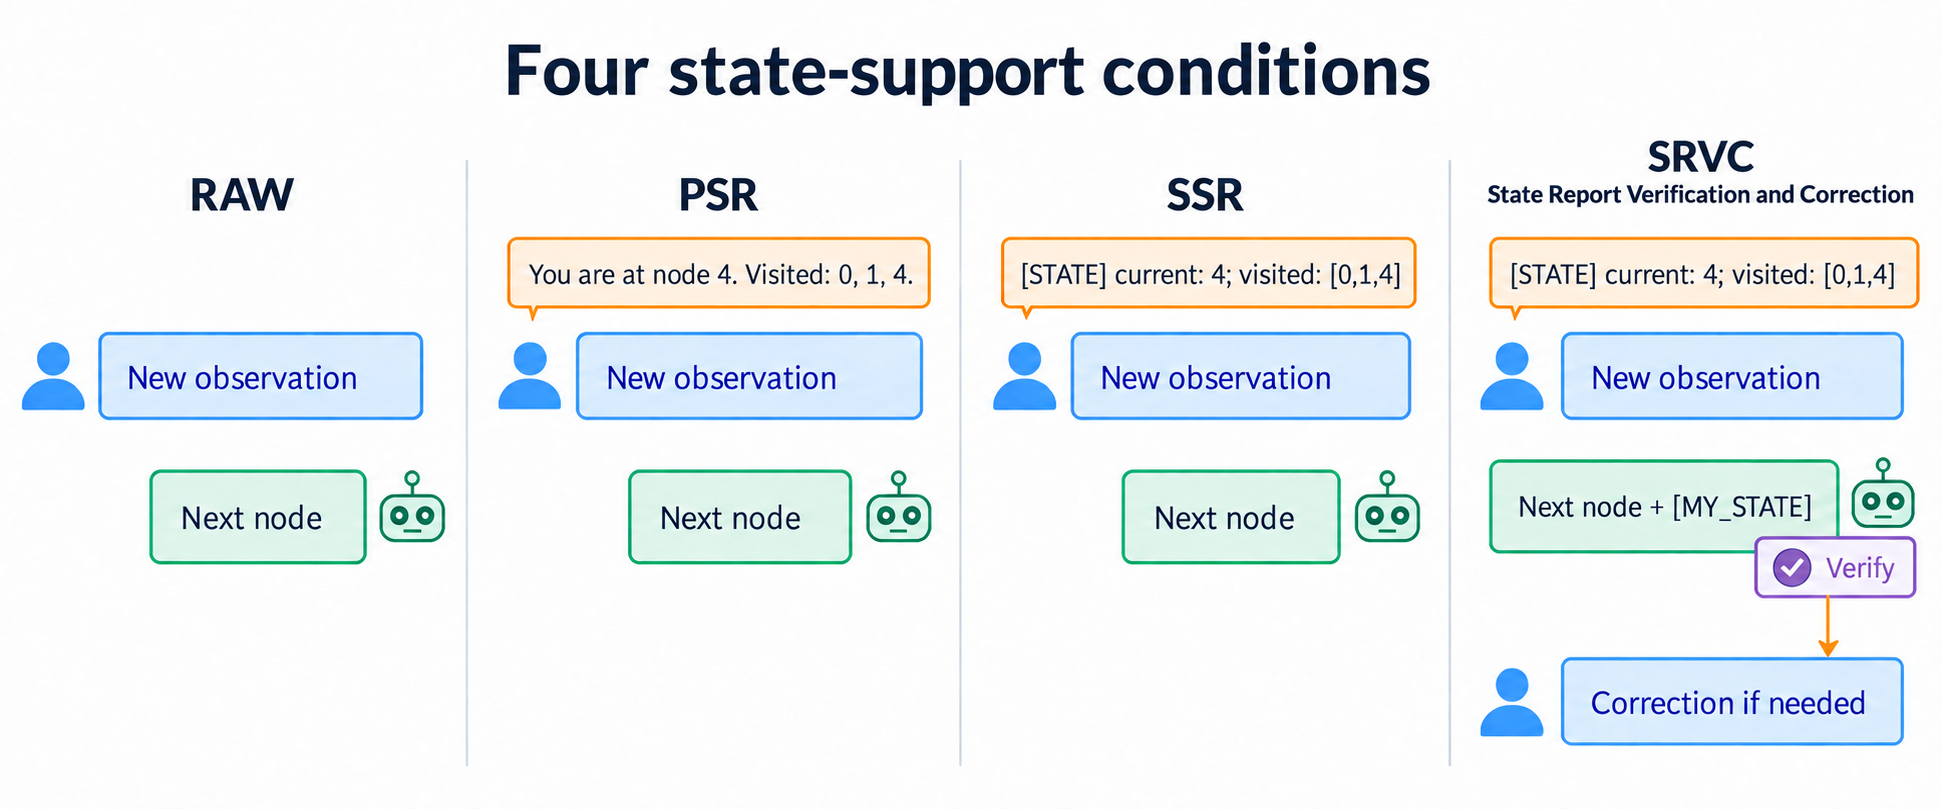
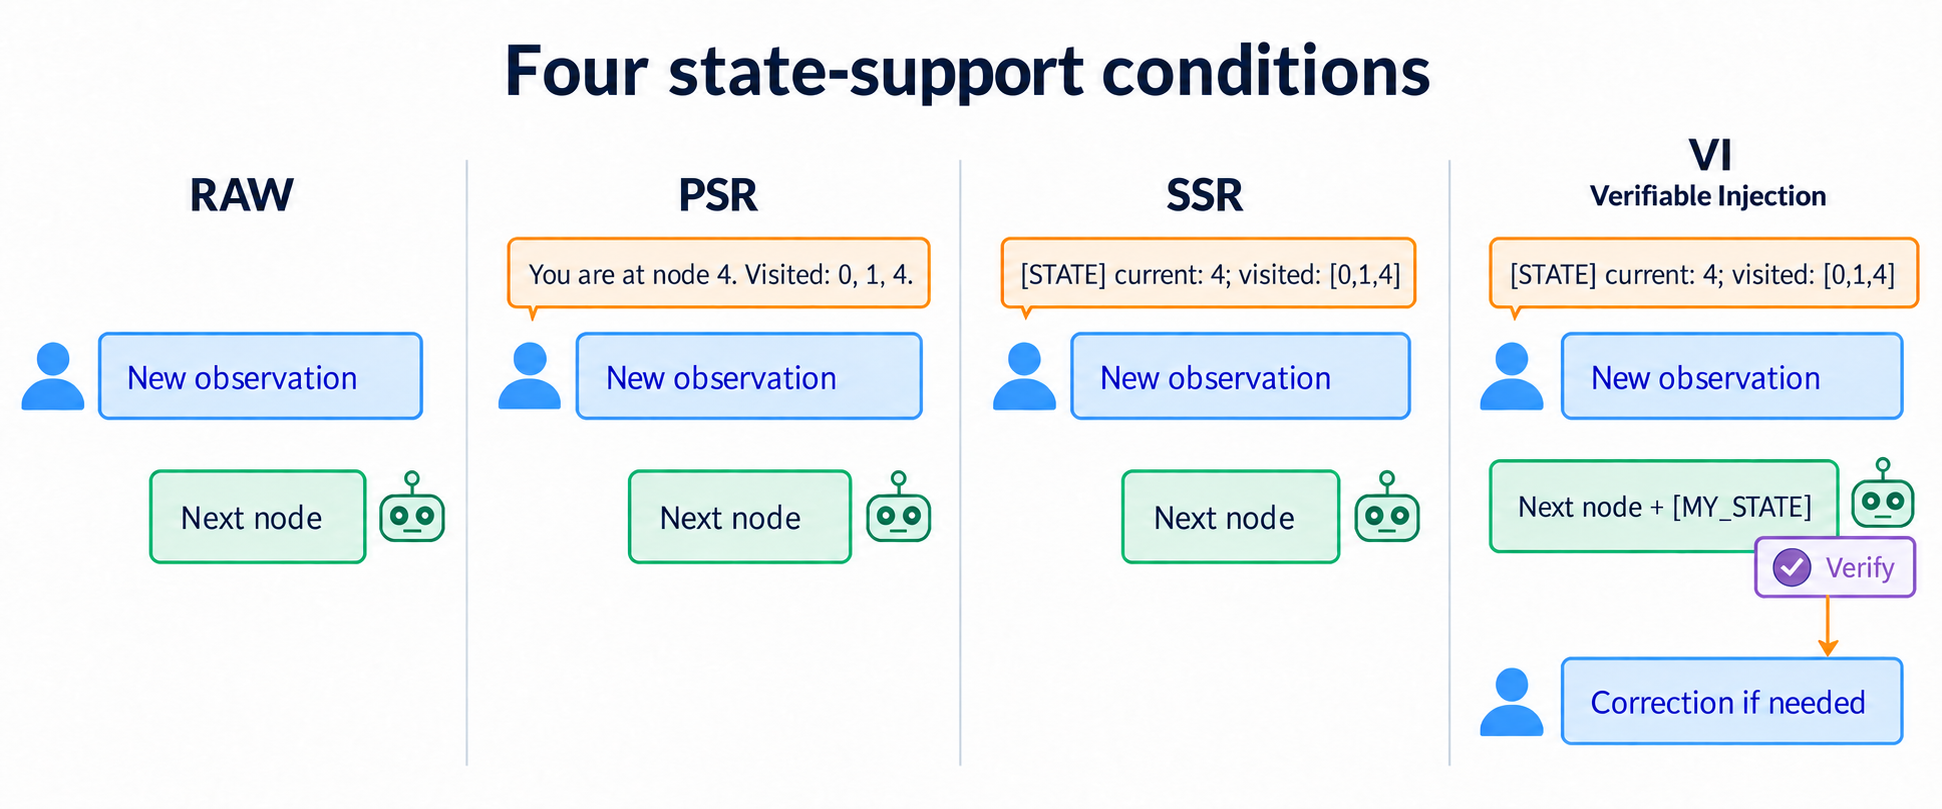
Update research showcase with completed study results

diff --git a/README.md b/README.md
@@ -4,177 +4,172 @@ Apurbo Banik Turjo
 
 **Collaborators:** Sushmita Paul, Dr. Ch. Md. Rakin Haider
 
-Maintained research workspace. Updated September 2026. Work in progress.
+Research summary updated October 2026. Paper in preparation.
 
-This is a public overview of an ongoing study. Results, exact prompts, traces,
-and implementation details will remain private until they are ready to share.
+This repository presents the study's design and current results. The aggregate
+analysis is public here; raw trajectories, full prompts, and run manifests are
+not included.
 
-## Abstract
+## Research question
 
-Small language models are useful when compute, cost, or privacy matters. But a
-model that answers one prompt well may still lose track of a task over a long
-interaction. It has to remember earlier steps, update its state as new
-information arrives, and recover when something goes wrong.
+An agent acting over many turns must use each new observation without losing
+the task state built so far. We ask whether externally maintained state,
+conversation history, and state-report verification help small language models
+complete interactive tasks while following the required algorithm.
 
-The project asks:
+We study breadth-first search (BFS) and depth-first search (DFS) on partially
+observed trees. Each turn reveals only the neighbors of the node reached.
+These tasks let us separate visiting all nodes from following the correct
+traversal order. They are controlled diagnostics, not the full range of agents
+we hope to study.
 
-> **How should an interactive system represent and manage state so that a small
-> language model can reason more reliably over many turns?**
+![An agent acts on partial observations while an external system maintains task state.](assets/research_setup.png)
 
-I study external state support, conversation history, and state verification
-in partially observed tasks. Interactive BFS and DFS give us a controlled way
-to observe these problems. They are test cases, not the wider goal of the
-research.
+## Experimental setup
 
-## Why this matters
+The completed inference campaign contains **25,600 trajectories**: four model
+checkpoints, two tasks, two difficulty levels, four state-support conditions,
+two history policies, and 200 matched graphs per exact cell. The models are
+Qwen3-1.7B, Qwen3.5-2B, Qwen3.5-4B, and Gemma-4-E4B-IT. Inference used one
+H100 NVL with a vLLM server, up to 16 concurrent episodes, greedy decoding
+(temperature 0), a 4,096-token output cap, a 2,048-token thinking budget,
+and a 32,768-token context limit.
 
-Many agents work one step at a time. A tool result, user reply, test failure, or
-environment change reveals information needed for the next step. A specialized
-SLM can keep a task-specific registry instead of reconstructing everything from
-a growing conversation. Facts visible to the surrounding system can also be
-checked when needed.
+![Four state-support conditions: RAW, PSR, SSR, and VI.](assets/state_conditions.png)
 
-This idea is relevant to:
+| Condition | State support |
+| --- | --- |
+| **RAW** | Current observation, with no injected state reminder. |
+| **PSR: Prose State Reminder** | Verified state restated in ordinary language. |
+| **SSR: Structured State Reminder** | The same task-specific facts in a tagged state block. |
+| **VI: Verifiable Injection** | SSR plus a required state report, checked against the environment, with feedback after a missing, malformed, or incorrect report. |
 
-- tool-using agents that must track calls, results, dependencies, and pending work;
-- troubleshooting systems that keep test results and possible causes;
-- task-oriented assistants that collect information and complete a workflow;
-- software and data agents that track files, tests, transformations, and remaining steps.
+Both PSR and SSR supply the current node and visited set. In the completed
+campaign, DFS also receives its root-to-current stack, while BFS does not
+receive an ordered queue. This matters when interpreting differences between
+the tasks.
 
-The aim is to locate the actual failure. Did the model misunderstand new
-information, lose the task state, update its plan incorrectly, choose the wrong
-action, or fail to recover after feedback?
+![VI checks the model's state report and sends a correction on the next turn when needed.](assets/vi_state_matching.png)
 
-## The interaction problem
+We also vary what remains in the conversation. Under **retain**, earlier
+injected reminders remain. Under **clear injection**, only the older reminder
+text is removed; previous observations and visible model replies remain.
+The current reminder is always present.
 
-![A small language model acts on partial observations while an external system maintains verified state.](assets/research_setup.png)
+![Retaining and clearing earlier state reminders.](assets/history_policies.png)
 
-At each turn, the model receives a local observation and chooses its next
-action. The environment keeps a verified record of the task. We test whether
-that record should be returned to the model and how it should be presented.
+## What the metrics mean
 
-This lets us observe failures such as forgetting earlier decisions, confusing
-the current state, repeating work, breaking the required procedure, and failing
-to recover from an error.
+Let `V` be all graph nodes, `U_K` the nodes visited after `K` accepted
+moves, `L` the recorded node-history length, and `ell` the uninterrupted
+initial sequence of algorithm-correct accepted moves.
 
-## Four forms of state support
+| Measure | Definition | Why it matters |
+| --- | --- | --- |
+| **Graph completion** | `C = 1[U_K = V]` | Did the model visit every node, regardless of order? |
+| **Correct traversal prefix** | `P = ell / L` | How long did it follow BFS or DFS before the first deviation? Later recovery does not restore the prefix. |
+| **Algorithm-correct completion** | `S = 1[C = 1 and P = 1]` | Did it both finish and preserve the required traversal order? |
+| **Zero-error FIFO success** | `S_0 = 1[S_FIFO = 1 and invalid attempts = 0 and format failures = 0]` | How often was strict traversal success achieved without recorded interface errors? |
+| **Valid-move rate** | admissible attempts / all recorded attempts | Separates legal moves from algorithmically correct moves. |
+| **Final decoverage** | `1 - |U_K| / |V|` | Fraction of nodes left undiscovered. |
 
-![Four state-support conditions: RAW, PSR, SSR, and SRVC.](assets/state_conditions.png)
+AQA-Bench also records accumulated decoverage, the sum of uncovered fractions
+after accepted moves. It is useful for following progress, but a short failed
+episode can have a deceptively small sum. We read it alongside completion and
+episode length.
 
-| Condition | What happens |
-|---|---|
-| **RAW** | The model receives only the current observation. |
-| **PSR: Prose State Reminder** | Verified state is restated in plain language. |
-| **SSR: Structured State Reminder** | The same state is provided in a tagged block. |
-| **SRVC: State Report Verification and Correction** | The model reports its state estimate. The system checks it and gives targeted feedback when needed. |
+The BFS campaign was originally scored with a strict FIFO-head checker.
+We also replayed its recorded actions under the historical AQA-Bench BFS
+frontier checker. The main **AQA success** values below use that replayed
+checker; FIFO success answers the stricter prompt-specific question. DFS
+scores coincide under the two rules. A valid move can still break either
+traversal order.
 
-These conditions help us ask whether external state helps, whether its format
-matters, and whether explicit state reports support verification and recovery.
+## Behavioral results
 
-## How SRVC works
+Every task-condition row below pools 3,200 trajectories across models,
+difficulties, and history policies.
 
-![SRVC parses a model state report, compares it with verified state, and issues a targeted correction after a failed check.](assets/srvc_state_matching.png)
+| Task | Condition | Graph completion | AQA algorithm-correct completion |
+| --- | --- | ---: | ---: |
+| BFS | RAW | 10.94% | 0.44% |
+| BFS | PSR | 24.50% | 1.63% |
+| BFS | SSR | 24.53% | 2.56% |
+| BFS | VI | 16.41% | 3.03% |
+| DFS | RAW | 22.69% | 14.88% |
+| DFS | PSR | 72.84% | 58.13% |
+| DFS | SSR | 79.19% | 70.00% |
+| DFS | VI | 74.59% | 62.81% |
 
-Under SRVC, the model reports its current node and visited nodes. The system
-compares that report with the verified environment state. A report can be:
+![Graph completion, recorded FIFO success, and replayed AQA success by task and condition.](assets/result_task_performance.png)
 
-- **missing:** the state block is absent;
-- **malformed:** a required field cannot be read;
-- **incorrect:** the reported state does not match;
-- **verified:** the reported state matches.
+State support improves completion in both tasks, but much more in DFS.
+Relative to RAW, SSR raises completion by **13.59 percentage points in BFS**
+and **56.50 points in DFS**. BFS illustrates why completion and algorithm
+adherence must be reported separately: under SSR, 24.53% visit every node,
+but only 2.56% finish with an uninterrupted AQA-correct prefix.
 
-If the check fails, the next turn includes a focused correction. This lets us
-study both the original state error and what happens after feedback.
+The format contrast is also task-dependent. SSR minus PSR completion is
+**+0.03 points in BFS** and **+6.34 points in DFS**; the corresponding AQA
+success differences are **+0.94** and **+11.88 points**. These are matched
+within-task comparisons, not evidence that structure has one uniform effect.
 
-## Why conversation history matters
+Keeping older reminders raises completion by **15.97 points for PSR** and
+**19.03 points for SSR** relative to clearing them. RAW has no reminder to
+retain; its 0.88-point difference is a repeated-control comparison. The
+contrasts are descriptive for these models, graphs, prompts, and run limits.
 
-![Comparison of retaining and clearing historical state injections while preserving the conversation.](assets/history_policies.png)
+## LLM judge and reasoning traces
 
-A reminder may help now but become stale later. We compare two policies:
+A separate primary pass used **claude-opus-4-6-thinking** to judge **2,560**
+paired trajectories, including 20 shared graph IDs per task-difficulty
+stratum across all models, conditions, and histories. The judge received a
+fixed rubric, visible responses and captured reasoning, actions, and
+authoritative graph facts. Model, condition, history-policy labels, and
+aggregate outcome scores were withheld. Prompt content still revealed some
+state-support cues.
 
-- **retain injections:** old state reminders stay in the conversation;
-- **clear historical injections:** each reminder is removed after its turn.
+It scored four 1–5 criteria:
 
-Earlier observations and visible model replies remain in both cases. Only the
-injected reminder is cleared.
+1. State tracking.
+2. Algorithmic reasoning and action coherence.
+3. History and feedback use.
+4. Visible response quality.
 
-## Research questions
+![Mean judge ratings on the four criteria, separately for BFS and DFS.](assets/result_judge_dimensions.png)
 
-1. How does external state support affect long-horizon behavior in small language models?
-2. Does structured state work differently from the same information in prose?
-3. What changes when old state injections are retained or cleared?
-4. What state-report errors occur, and when does correction help?
+The equal-weight mean of these four ordinal ratings is **1.82 for RAW**,
+**2.85 for PSR**, **3.03 for SSR**, and **2.59 for VI**. These are
+descriptive process ratings, not independently validated measurements of
+hidden reasoning. The judge also recorded a dominant-failure label and
+turn-cited rationale. Inspected traces show concrete state and action errors,
+but selected examples do not establish how often a mechanism occurs.
 
-## Observations so far
+All 2,560 primary judgments were extracted with no schema validation errors.
+Seven semantic warning flags were inspected. The selected **246 repeat
+judgments remain unrun**, and an independent blinded human-calibration study
+is not complete.
 
-These are early observations from the experiments and reasoning traces. They
-will be tested more carefully in the final analysis.
+## Limits and next steps
 
-1. **Smaller models often get stuck in verification loops.** An SLM may reach
-   the correct result and still continue checking the same reasoning instead
-   of committing to an answer. This appears more often in the smaller models.
-   Limited model capacity and a narrower range of learned reasoning patterns
-   are possible explanations, but the trace analysis is still in progress.
-2. **A clear system prompt matters.** The prompt needs to describe the
-   specialized task and the current interaction precisely. In one early setup,
-   models did not understand that the solution should unfold across multiple
-   turns. They tried to simulate the whole interaction inside every response.
-   A concise and clearer system prompt reduced this behavior.
-3. **Verbosity is difficult to control, but it can sometimes help.** Models do
-   not always follow the requested response format and may produce much more
-   reasoning than needed. At the same time, those visible explanations remain
-   in later context and can support subsequent reasoning through in-context
-   self-conditioning. Verbosity can therefore be either useful or harmful,
-   depending on what the model preserves.
-4. **SLMs struggle to maintain algorithmic working state internally.** This is
-   especially visible in BFS, where we intentionally did not provide the
-   ordered queue and required the model to maintain it. Performance remained poor.
-   DFS improved noticeably when the current stack was supplied. This is not a
-   direct comparison of BFS and DFS difficulty because the two tasks received
-   different levels of algorithmic state support. Instead, it suggests that
-   externalizing task-relevant working state can substantially change SLM
-   behavior.
+The study uses four checkpoints, one prompt family, selected trees, finite
+token limits, and one execution per cell. DFS received a stack while BFS did
+not receive its queue, so their different gains do not isolate task difficulty
+or an equal amount of algorithmic support.
 
-## Working plan
+VI combines a state report, delayed feedback, and a prompt-format tension.
+In **4,625 of 6,400 VI trajectories**, at least one correction about a
+previous turn appears alongside different current-state values. Those
+observations describe the implemented VI protocol; they do not identify the
+causal effect of verification alone.
 
-### Done
+![Recorded VI report outcomes and the share of trajectories with conflicting temporal values.](assets/result_vi_protocol.png)
 
-- [x] Define the study.
-- [x] Build the four state conditions.
-- [x] Add the two history policies.
-- [x] Set the evaluation measures.
-
-### In progress
-
-- [x] Finish the matched runs.
-- [ ] Check runs and provenance.
-- [ ] Summarize the results.
-
-### Next
-
-- [ ] Apply an LLM judge to extract general metrics from results and reasoning traces.
-- [ ] Study SRVC errors and recovery.
-- [ ] Write the results and limitations.
-- [ ] Prepare the public artifacts.
-
-## Evaluation
-
-The main measures come from the environment, including completion, traversal
-correctness, valid actions, and recovery. Trace analysis will help explain how
-the model reached those outcomes. Any model-based judgment will be checked
-against human-reviewed examples before it is treated as evidence.
-
-## What is not public yet
-
-The study is still in progress, so this repository does not currently include:
-
-- quantitative results or model rankings;
-- exact prompts or decoding settings;
-- unreleased traces or run manifests;
-- implementation details still being checked.
-
-Validated results, statistical comparisons, and reproducible artifacts will be
-added when they are ready.
+Next, we will validate judge repeatability and human agreement, evaluate a
+time-aligned VI protocol, isolate the effects of algorithm-specific control
+state, and test beyond these graphs and prompts. The paper will keep the
+behavioral outcomes primary and the judge analysis exploratory until those
+checks are complete.
 
 ---
 
